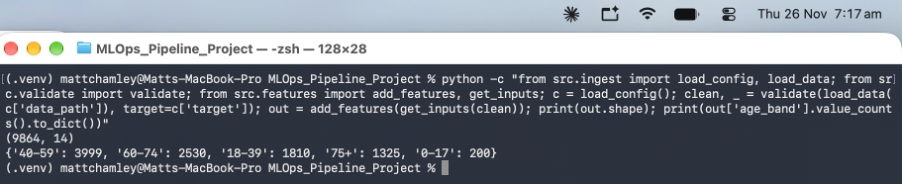
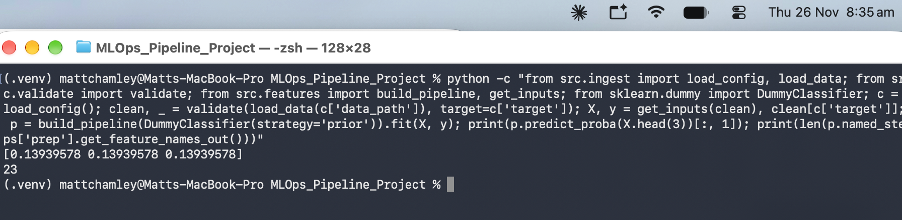
Add build_pipeline to features.py
Pipeline chains add_features, preprocessing and a model passed in as a parameter. Numbers: median fill with missing flag, then scaling. Categories: most-frequent fill, then one-hot with unknown categories ignored. Checked with a dummy model: 23 columns out.

diff --git a/src/features.py b/src/features.py
@@ -10,13 +10,17 @@
 # simplified version, using only the two conditions in the data.
 
 # age_band: 0-17, 18-39, 40-59, 60-74, 75+. Used as a model input and to report
-# results by age group. The 75+ cut-off is selected as th older-adult threshold.
+# results by age group. The 75+ cut-off is selected as the older-adult threshold.
 
 # Mortality and patient_id are left out of the inputs. Mortality is an outcome that
 # is not known at triage, so using it would leak the answer. Patient ID is only a label.
-# These features are assumptions built from the columns available. 
+# These features are assumptions built from the columns available.
 
 import pandas as pd
+from sklearn.compose import ColumnTransformer
+from sklearn.impute import SimpleImputer
+from sklearn.pipeline import Pipeline
+from sklearn.preprocessing import FunctionTransformer, OneHotEncoder, StandardScaler
 
 from src.validate import INPUTS
 
@@ -36,6 +40,26 @@ def add_features(df):
     df["comorbidity_count"] = df["diabetes"] + df["hypertension"]
     df["age_band"] = pd.cut(df["age"], bins=AGE_BINS, labels=AGE_LABELS).astype(object)
     return df
+
+
+def build_pipeline(model):
+    number_steps = Pipeline([
+        ("fill", SimpleImputer(strategy="median", add_indicator=True)),
+        ("scale", StandardScaler()),
+    ])
+    category_steps = Pipeline([
+        ("fill", SimpleImputer(strategy="most_frequent")),
+        ("encode", OneHotEncoder(handle_unknown="ignore")),
+    ])
+    prep = ColumnTransformer([
+        ("numbers", number_steps, NUMBER_FEATURES),
+        ("categories", category_steps, CATEGORY_FEATURES),
+    ])
+    return Pipeline([
+        ("features", FunctionTransformer(add_features)),
+        ("prep", prep),
+        ("model", model),
+    ])
 
 
 def get_inputs(df):
